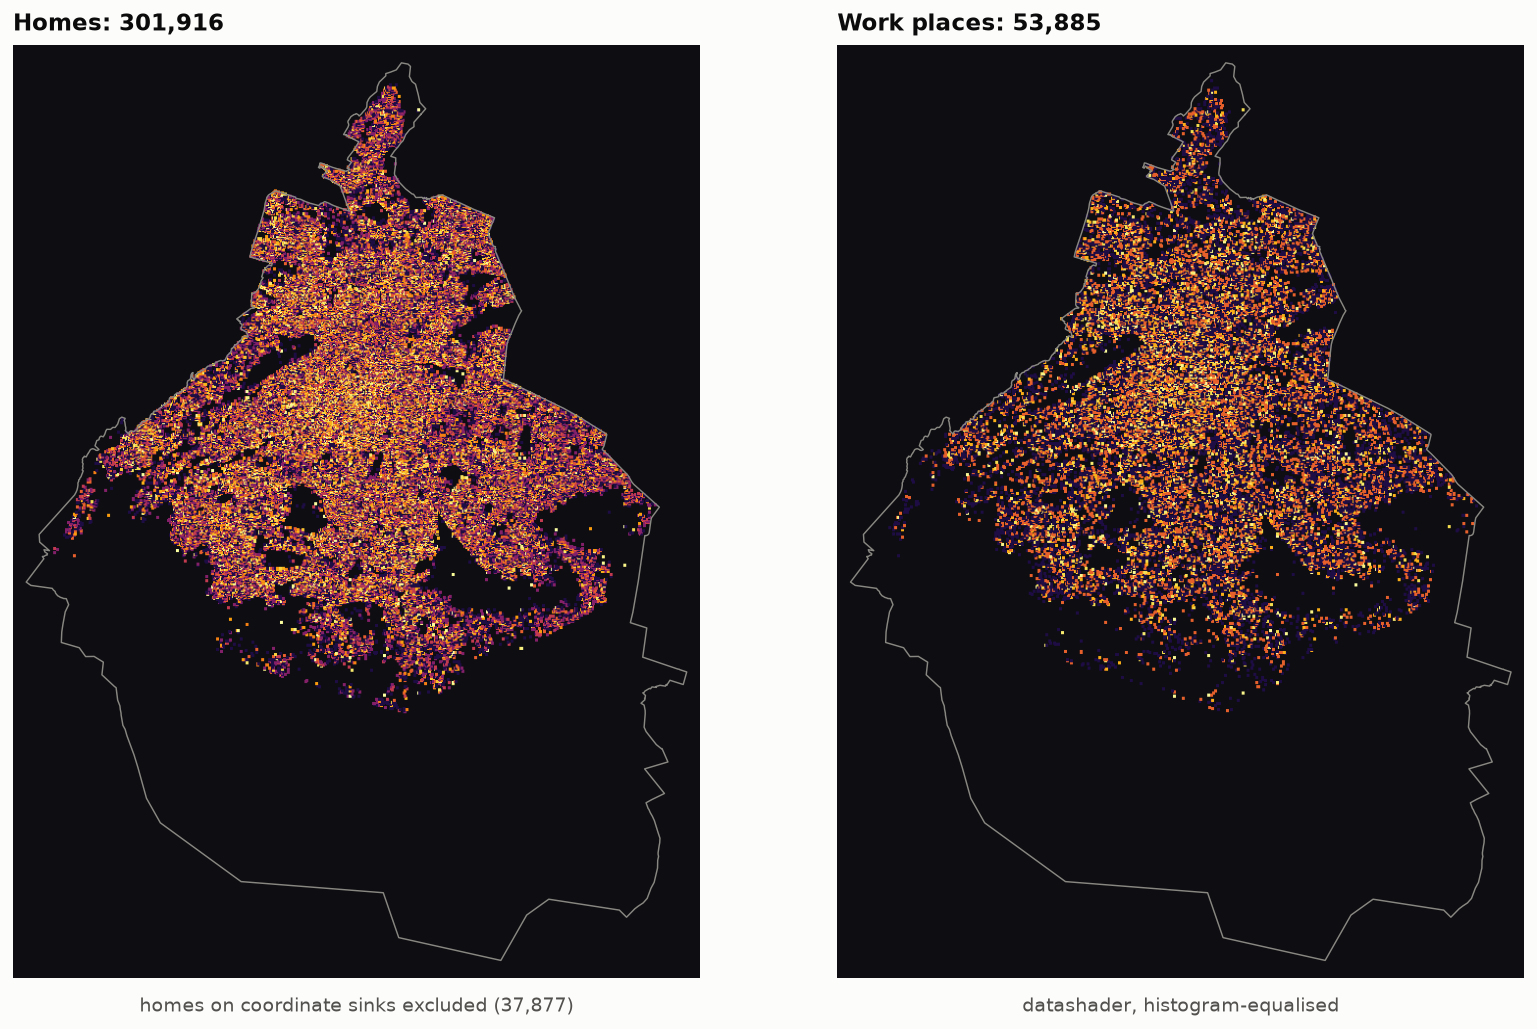
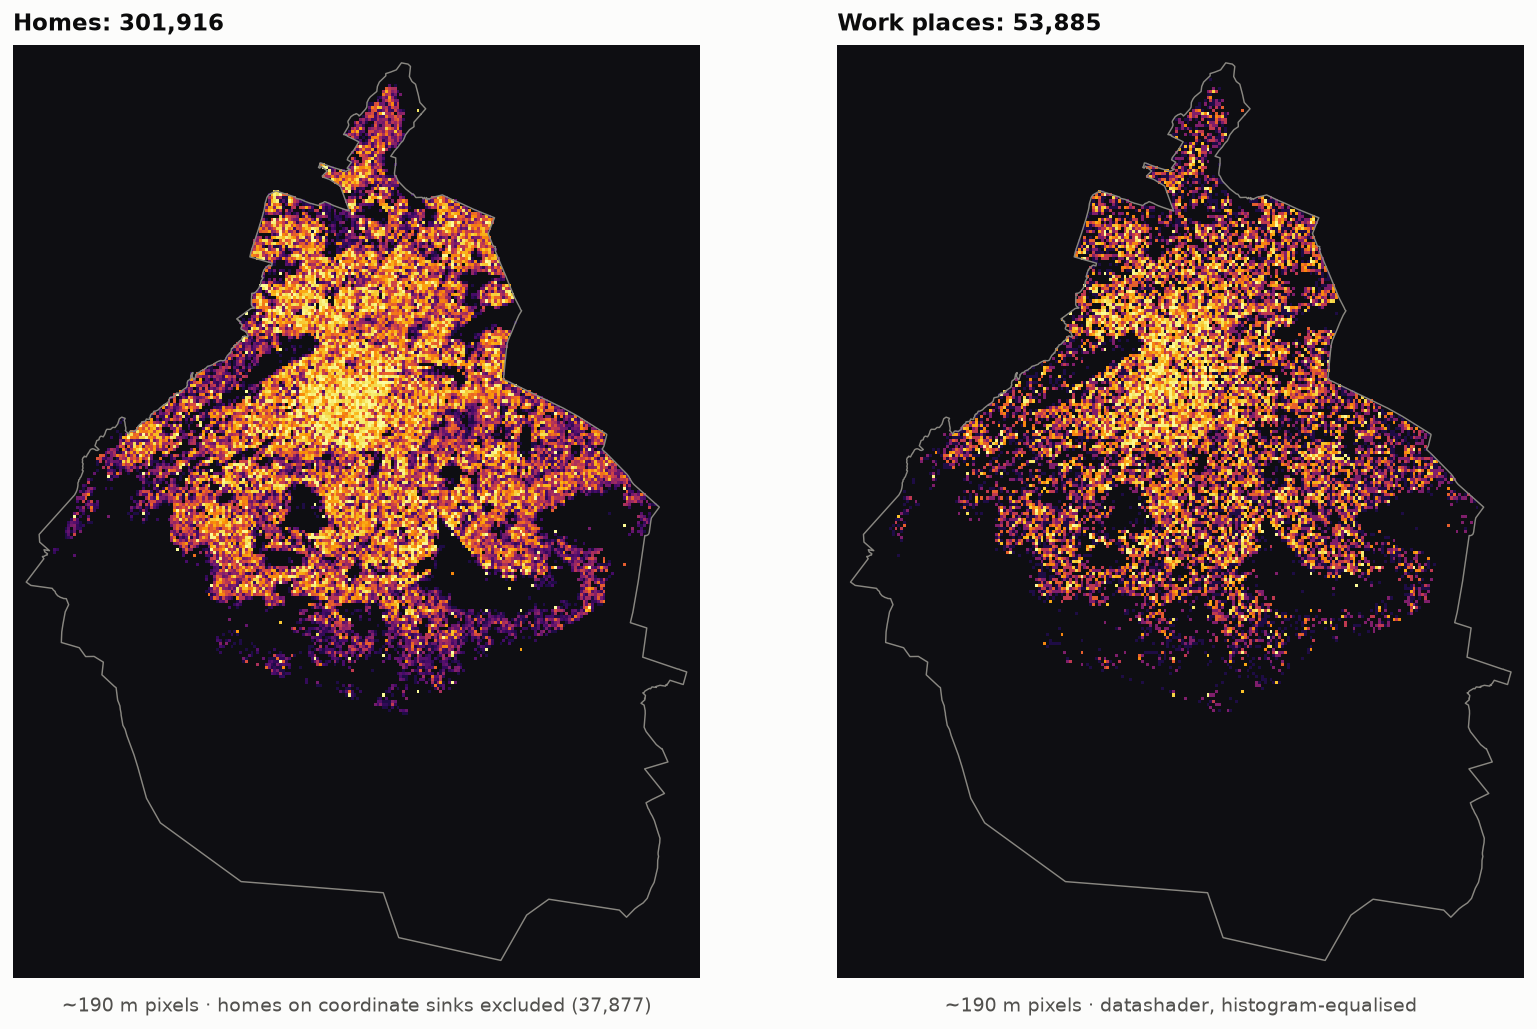
Home/work datashader maps on ~190 m pixels so sparse work places use the full palette

diff --git a/examples/mexico_city_figures.py b/examples/mexico_city_figures.py
@@ -157,9 +157,9 @@ def ds_image(lon, lat, cmap, width=900, spread=0):
     return np.asarray(img.to_pil()), (lon0, lon1, lat0, lat1)
 
 
-def ds_panel(ax, img, ext, title, subtitle=""):
+def ds_panel(ax, img, ext, title, subtitle="", interpolation="auto"):
     """A datashader map on a white page: dark panel, true proportions, city outline."""
-    ax.imshow(img, extent=ext, origin="upper", interpolation="auto",
+    ax.imshow(img, extent=ext, origin="upper", interpolation=interpolation,
               aspect=1 / np.cos(np.radians((ext[2] + ext[3]) / 2)))
     b = boundary()
     for poly in getattr(b, "geoms", [b]):
@@ -195,13 +195,15 @@ def fig_ds_home_work(loc, path):
     h = loc.drop_nulls("home_latitude")
     w = loc.drop_nulls("work_latitude")
     fig, axes = plt.subplots(1, 2, figsize=(15, 9.5))
+    # ~190 m pixels for both: work places are sparse (54k over the city), and at finer pixels
+    # 80% of pixels hold 1-2 points, so histogram equalisation collapses to two colors
     panels = [(h, "home_latitude", "home_longitude", f"Homes: {h.height:,}",
-               f"homes on coordinate sinks excluded ({nh:,})"),
+               f"~190 m pixels · homes on coordinate sinks excluded ({nh:,})"),
               (w, "work_latitude", "work_longitude", f"Work places: {w.height:,}",
-               "datashader, histogram-equalised")]
+               "~190 m pixels · datashader, histogram-equalised")]
     for ax, (d, la, lo, title, sub_) in zip(axes, panels):
-        img, ext = ds_image(d[lo], d[la], inferno_list(), width=700, spread=1)
-        ds_panel(ax, img, ext, title, sub_)
+        img, ext = ds_image(d[lo], d[la], inferno_list(), width=240)
+        ds_panel(ax, img, ext, title, sub_, interpolation="nearest")
     fig.savefig(path, dpi=130, bbox_inches="tight")
     plt.close(fig)
 

diff --git a/docs/examples/mexico-city.md b/docs/examples/mexico-city.md
@@ -61,13 +61,19 @@ pixel, histogram-equalised colors) and clipped to the city boundary:
 
 ## Homes and work places
 
-The home and work location of every device that has one (`pipe.locations()`), same rendering.
-Homes on coordinate sinks are excluded.
+The home and work location of every device that has one (`pipe.locations()`), same rendering
+on ~190 m pixels. Homes on coordinate sinks are excluded. Work places are sparse (54k over the
+city): at finer pixels 80% of them would hold just 1 or 2 points, and histogram equalisation, which
+colors pixels by the *rank* of their count, would collapse to two colors.
 
 ![Homes and work places in Mexico City](../assets/figures/cdmx_home_work.png)
 
-Homes cover the residential city; work places concentrate in the center and along the main
-corridors. With one month of data (7 / 4 day thresholds), about one device in six with a home
+Homes cover the residential city; work places concentrate in the central core (Cuauhtémoc,
+Benito Juárez, Miguel Hidalgo) and fade outward. The concentration is weaker than in
+employment statistics: December is a short work month (holidays), the sample is app users'
+pings, and much of the city's work is local and dispersed. Work detection uses the gc-lbs MX
+thresholds (4 workdays, ≥ 50 m from home); stricter ones (8 days and 1 km, or 10 days and 2 km)
+keep fewer work places but give the same geography. With one month of data (7 / 4 day thresholds), about one device in six with a home
 also has a work place. For per-hexagon counts you can join with other data, see [Heat maps
 with H3](../guide/spatial.md). Click any figure to enlarge it.
 
